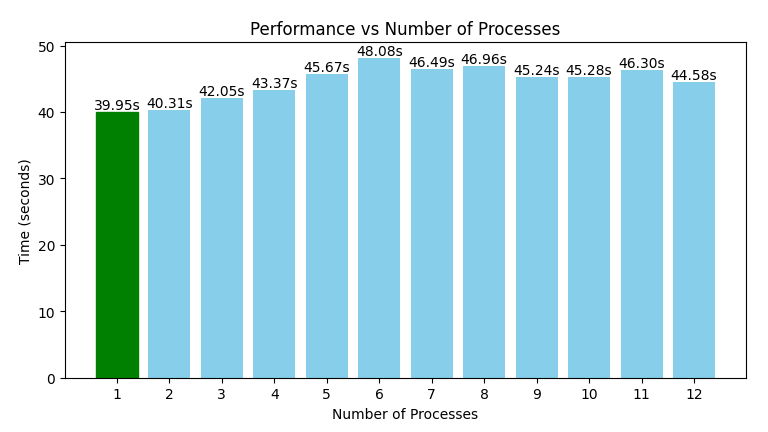
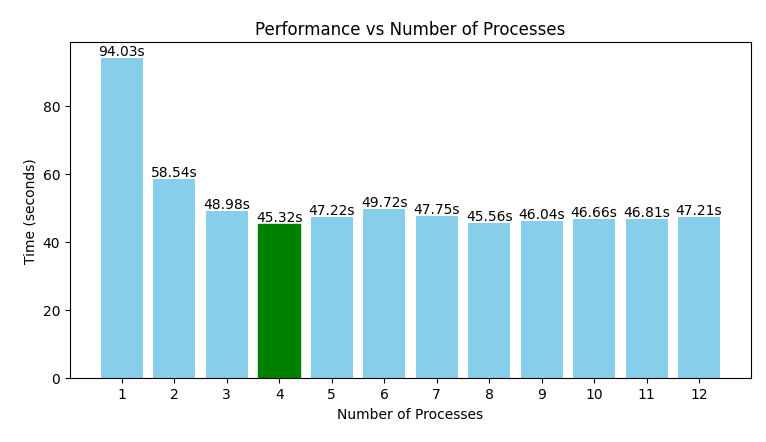
Fixed the logic of the time measure

diff --git a/Lab4/card_finder.py b/Lab4/card_finder.py
@@ -5,18 +5,20 @@ from functools import partial
 
 class CardFinder:
     def __init__(self):
-        self.cpu_count = multiprocessing.cpu_count()
+       self.cpu_count = multiprocessing.cpu_count()
 
-    def find_card_number(self, bins, last4_digits, card_hash):
+    def find_card_number(self, bins, last4_digits, card_hash, processes=0):
         """
         Find card number matching the hash with given BIN and last 4 digits
+        :param processes: Count of processes
         :param bins: list of BINs
         :param last4_digits: last 4 digits
         :param card_hash: hash value
         :return: found card number
         """
+        if not processes: processes = self.cpu_count
 
-        with multiprocessing.Pool(processes=self.cpu_count) as pool:
+        with multiprocessing.Pool(processes=processes) as pool:
             for bin_prefix in bins:
                 result = self._process_bin(pool, card_hash, bin_prefix, last4_digits)
                 if result:

diff --git a/Lab4/time_measurer.py b/Lab4/time_measurer.py
@@ -23,7 +23,7 @@ class TimeMeasurer:
         for num_processes in range(1, max_processes + 1):
             start_time = time.time()
             card = CardFinder()
-            card.find_card_number(bin_prefixes, last4_digits, card_hash)
+            card.find_card_number(bin_prefixes, last4_digits, card_hash, num_processes)
             elapsed = time.time() - start_time
             results.append((num_processes, elapsed))
 
